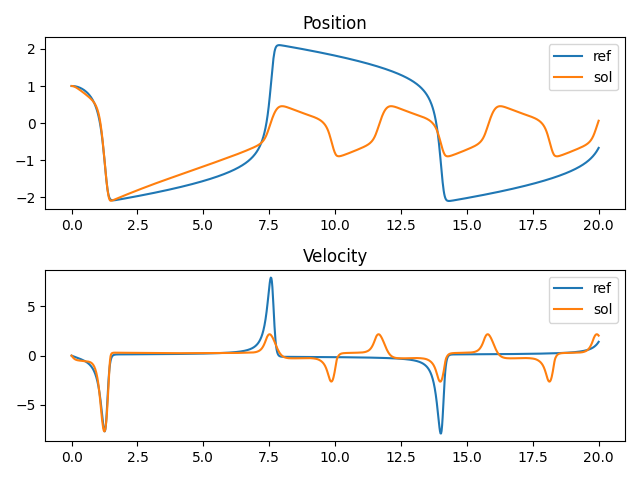
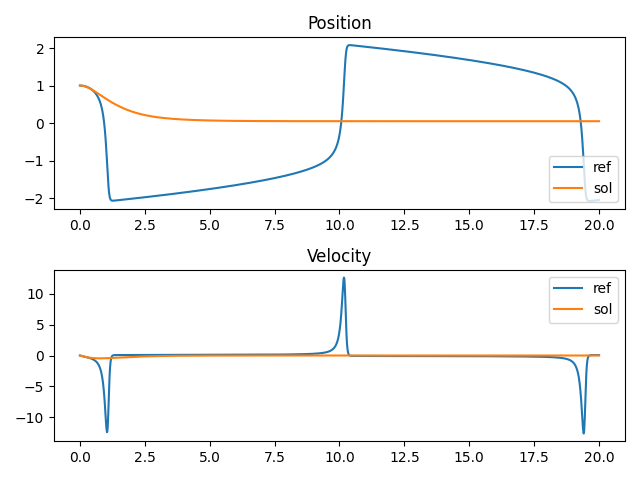
Added augmented state; see augmented NODE

diff --git a/01_Informed_Simulators/03_adjoint_scipy_minimize/adjoint_master_file_NN.py b/01_Informed_Simulators/03_adjoint_scipy_minimize/adjoint_master_file_NN.py
@@ -63,7 +63,9 @@ def ode(z, t, ode_parameters):
     mu = ode_parameters[1]
     mass = ode_parameters[2]
     derivative = jnp.array([z[1],
-                           -kappa*z[0]/mass + (mu*(1-z[0]**2)*z[1])/mass])
+                           -kappa*z[0]/mass + (mu*(1-z[0]**2)*z[1])/mass,
+                           0,
+                           0])
     return derivative
 
 @jit
@@ -74,7 +76,10 @@ def hybrid_ode(z, t, ode_parameters, nn_parameters):
     mu = ode_parameters[1]
     mass = ode_parameters[2]
     derivative = jnp.array([jnp.array((z[1],)),
-                            jnp.array((-kappa*z[0]/mass,)) + jitted_neural_network(nn_parameters, z)]).flatten()
+                            jnp.array((-kappa*z[0]/mass,)) + jitted_neural_network(nn_parameters, z),
+                            [0],
+                            [0]]).flatten()
+
     return derivative
 
 @jit
@@ -83,6 +88,7 @@ def adjoint_f(adj, z, z_ref, t, ode_parameters, nn_parameters):
     df_dz = jax.jacobian(hybrid_ode, argnums=0)(z, t, ode_parameters, nn_parameters)
     dg_dz = jax.grad(g, argnums=0)(z, z_ref, ode_parameters, nn_parameters)
     d_adj = - df_dz.T @ adj - dg_dz
+    # d_adj = - df_dz @ adj - dg_dz
     return d_adj
 
 def g(z, z_ref, ode_parameters, nn_parameters):
@@ -98,8 +104,8 @@ def J(z, z_ref, ode_parameters, nn_parameters):
 
 def f_euler(z0, t, ode_parameters):
     '''Applies forward Euler to the original ODE and returns the trajectory'''
-    z = np.zeros((t.shape[0], 2))
-    z[0] = z0
+    z = np.zeros((t.shape[0], 4))
+    z[0,0:2] = z0
     for i in range(len(t)-1):
         dt = t[i+1] - t[i]
         z[i+1] = z[i] + dt * ode(z[i], t[i], ode_parameters)
@@ -107,8 +113,8 @@ def f_euler(z0, t, ode_parameters):
 
 def hybrid_euler(z0, t, ode_parameters, nn_parameters):
     '''Applies forward Euler to the hybrid ODE and returns the trajectory'''
-    z = np.zeros((t.shape[0], 2))
-    z[0] = z0
+    z = np.zeros((t.shape[0], 4))
+    z[0,0:2] = z0
     for i in range(len(t)-1):
         dt = t[i+1] - t[i]
         z[i+1] = z[i] + dt * hybrid_ode(z[i], t[i], ode_parameters, nn_parameters)
@@ -116,8 +122,11 @@ def hybrid_euler(z0, t, ode_parameters, nn_parameters):
 
 def adj_euler(a0, z, z_ref, t, ode_parameters, nn_parameters):
     '''Applies forward Euler to the adjoint ODE and returns the trajectory'''
-    a = np.zeros((t.shape[0], 2))
-    a[0] = a0
+    a = np.zeros((t.shape[0], 4))
+    # z_ = np.zeros((z.shape[0], 4))
+    # z_ref_ = np.zeros((z_ref.shape[0],4))
+
+    a[0,0:2] = a0
     times = []
     for i in range(len(t)-1):
         dt = t[i+1] - t[i]
@@ -204,7 +213,7 @@ def function_wrapper(nn_parameters, args):
     print(f'Epoch: {epoch}, Loss: {loss:.5f}, Time: {end-start:3.5f}')
 
     if np.abs(loss - old_loss) < 0.1:
-        flat_dJ_dtheta += np.random.normal(0, 10/epoch, flat_dJ_dtheta.shape)
+        flat_dJ_dtheta += np.random.normal(0, np.linalg.norm(flat_dJ_dtheta,2)*0.1, flat_dJ_dtheta.shape)
 
     epoch += 1
     args[5] = epoch
@@ -212,19 +221,19 @@ def function_wrapper(nn_parameters, args):
     return loss, flat_dJ_dtheta
 
 
-ode_parameters_ref = np.asarray([1.0, 5.0, 1.0])
+ode_parameters_ref = np.asarray([1.0, 8.53, 1.0])
 
-layers = [20, 20, 1]
+layers = [40, 1]
 #NN Parameters
 key1, key2, key3 = random.split(random.PRNGKey(0), 3)
 # Input size is guess from input during init
 neural_network = ExplicitMLP(features=layers)
-nn_parameters = neural_network.init(key2, np.zeros((1, 2)))
+nn_parameters = neural_network.init(key2, np.zeros((1, 4)))
 jitted_neural_network = jax.jit(lambda p, x: neural_network.apply(p, x))
 # jitted_neural_network = jax.jit(lambda p, x: neural_network.apply(p, x, rngs={'dropout': key3}))
 
 
-t = np.linspace(0.0, 5.0, 501)
+t = np.linspace(0.0, 10.0, 1001)
 z0 = np.array([1.0, 0.0])
 flat_nn_parameters, unravel_pytree = flatten_util.ravel_pytree(nn_parameters)
 epoch = 0
@@ -236,9 +245,22 @@ method = 'BFGS'
 res = minimize(function_wrapper, flat_nn_parameters, method=method, jac=True, args=args, options={'maxiter': 1000})
 nn_parameters = args[7]
 
-t = np.linspace(5, 10.0, 501)
+t = np.linspace(10, 20.0, 1001)
 z0_1 = np.array([z_ref_0[-1,0], z_ref_0[-1,1]])
 # z0_1 = z0
+flat_nn_parameters, unravel_pytree = flatten_util.ravel_pytree(nn_parameters)
+epoch = 0
+z_ref_1 = f_euler(z0_1, t, ode_parameters_ref)
+# Put all arguments the optimization needs into one array for the minimize function
+args = [t, z0_1, z_ref_1, ode_parameters_ref, unravel_pytree, epoch, np.inf, None]
+# Optimisers: CG, BFGS, Newton-CG, L-BFGS-B, TNC, SLSQP, dogleg, trust-ncg, trust-krylov, trust-exact and trust-constr
+method = 'BFGS'
+res = minimize(function_wrapper, flat_nn_parameters, method=method, jac=True, args=args, options={'maxiter': 1000})
+nn_parameters = args[7]
+
+t = np.linspace(0, 20.0, 2001)
+# z0_1 = np.array([z_ref_0[-1,0], z_ref_0[-1,1]])
+z0_1 = z0
 flat_nn_parameters, unravel_pytree = flatten_util.ravel_pytree(nn_parameters)
 epoch = 0
 z_ref_1 = f_euler(z0_1, t, ode_parameters_ref)
@@ -253,7 +275,7 @@ nn_parameters = args[7]
 
 print(res)
 
-t = np.linspace(0.0, 10.0, 1001)
+t = np.linspace(0.0, 20.0, 2001)
 z = hybrid_euler(z0, t, ode_parameters_ref, nn_parameters)
 z_ref = f_euler(z0, t, ode_parameters_ref)
 
